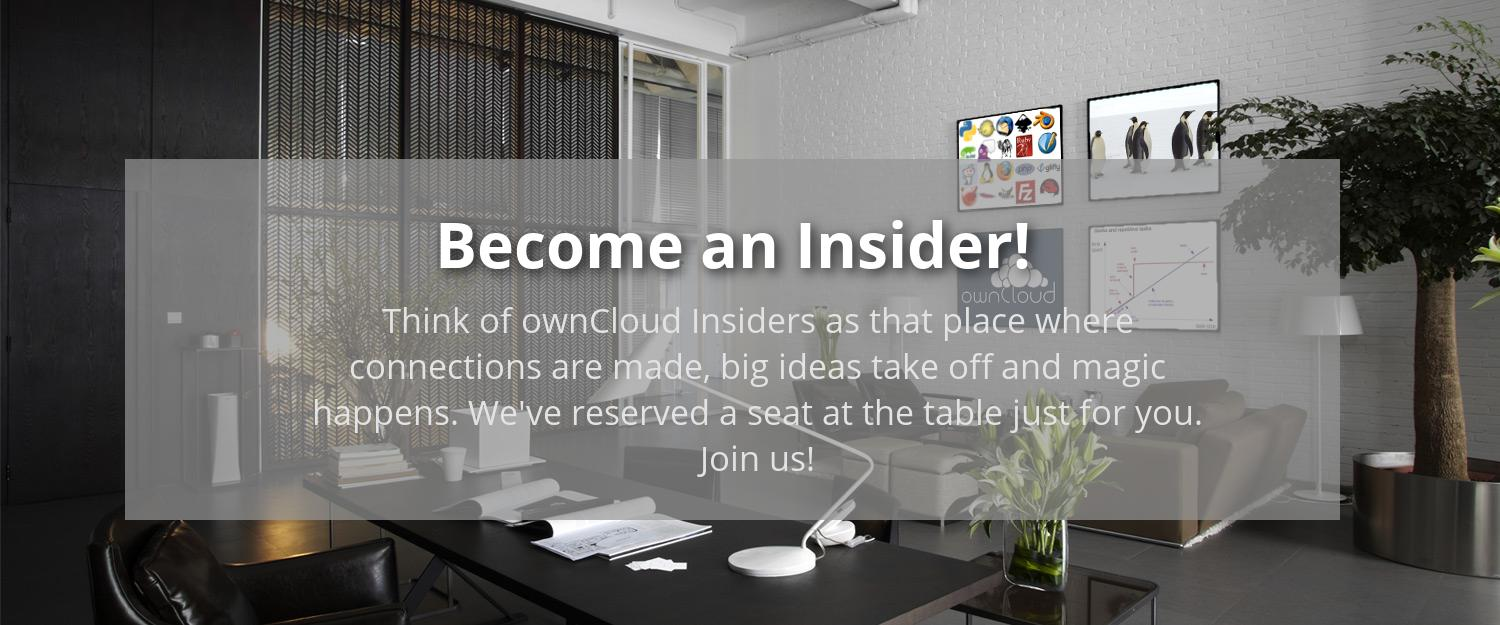
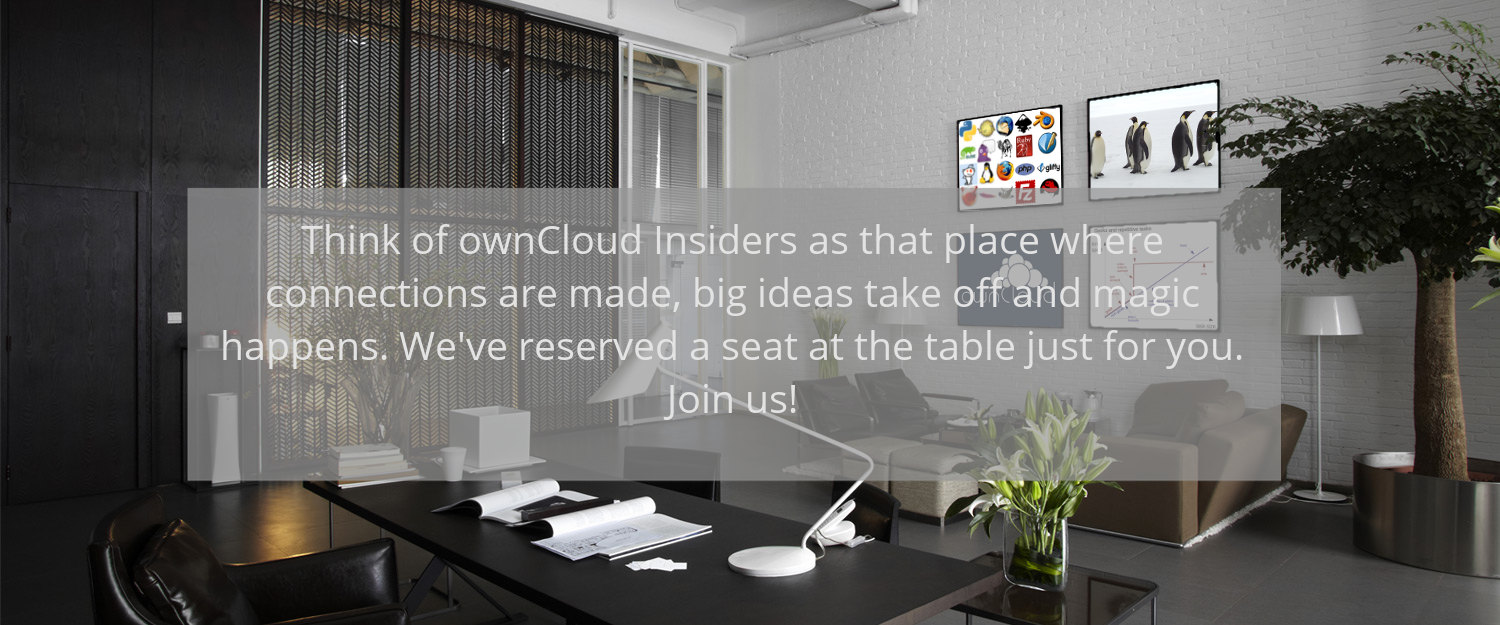
Implement Jan's feedback

Changed region(s): [[0.0613, 0.1824, 0.92, 0.8512], [0.276, 0.0, 0.3067, 0.0304]]

diff --git a/page-promote.php b/page-promote.php
@@ -11,7 +11,10 @@
 		<i class="icon-asterisk"></i> Share on Diaspora</a>
 	</div>
 </div>
-<p>If you are serious about diving into ownCloud, learning more about it and advocating its use, join ownCloud Insiders!</p>
+<div class="page-header">
+	<h1>Become an Insider</h1>
+</div>
+
 <!-- <div style="display: none;" id="insiders"> -->
 <!--	<p><strong>Thank you</strong> for using and supporting ownCloud.</p>
 
